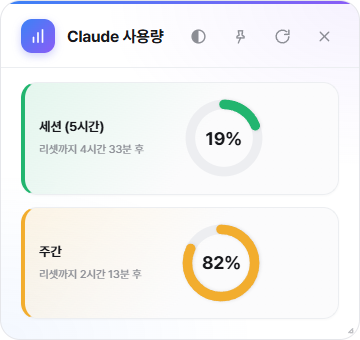
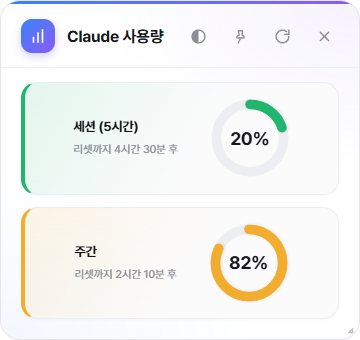
사용량 카드 텍스트-링을 가운데 정렬로 변경 (오른쪽에 몰리던 빈 공간 해소)
flex-start + gap:40px로 붙였더니 이번엔 링 오른쪽에 빈 공간이 몰려서
어색해 보인다는 피드백. justify-content: center로 바꿔서 텍스트+링 묶음이
카드 안에서 가운데 정렬되게 하고, 그에 맞춰 gap도 32px로 살짝 줄임.
Playwright 렌더링으로 확인 후 확정, 스크린샷 갱신.

diff --git a/usage_widget/assets/web/usage.html b/usage_widget/assets/web/usage.html
@@ -14,7 +14,7 @@
     flex: 1;
     display: flex;
   }
-  .usage-row { display: flex; align-items: center; justify-content: flex-start; gap: 40px; flex: 1; }
+  .usage-row { display: flex; align-items: center; justify-content: center; gap: 32px; flex: 1; }
   .usage-info { display: flex; flex-direction: column; gap: 8px; min-width: 0; }
   .usage-title { font-size: 13px; font-weight: 600; letter-spacing: -0.1px; }
   .usage-reset { line-height: 1.4; }
